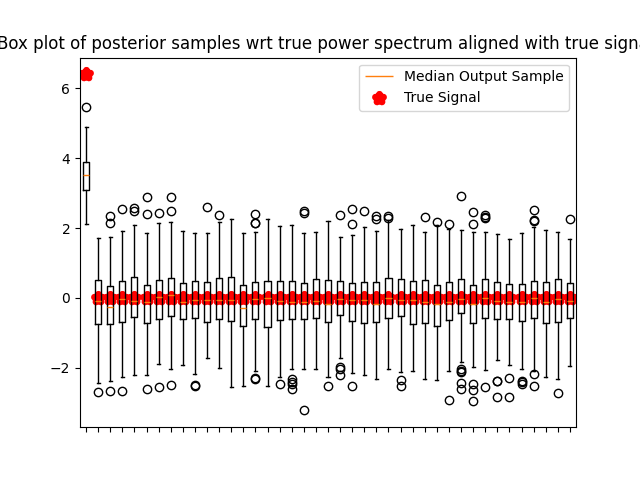
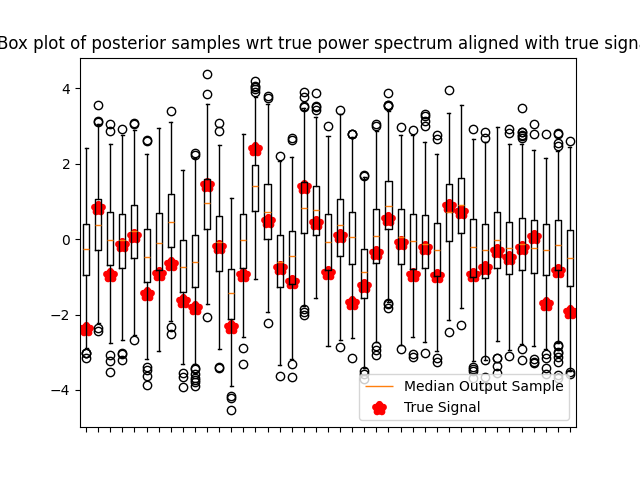
Reworking pwrspec_score.py

diff --git a/src/test_scorematching.py b/src/test_scorematching.py
@@ -83,30 +83,29 @@ if __name__ == "__main__":
     print(f"Current device is \'{device}\'.")
 
     ### Set parameters for MRA
-    M = 10000
+    M = 1000
     sigma = 1.
 
     ### Set parameters for true signal
     length = 41
     signal_true = torch.zeros((length,), device=device, requires_grad=False)
-    signal_true[0] = np.sqrt(41)
-
-    # signal_true = 1. * torch.ones((length,), device=device, requires_grad=False)
-    # signal_true += 0.5 * torch.randn_like(signal_true)
+    # signal_true[0] = np.sqrt(41)
+    # signal_true += 1.
+    signal_true += torch.randn_like(signal_true)
 
     ### Set parameters for conditioner
     conditioner_type = "power_spectrum" # "power_spectrum", "triple_correlation"
     use_random_statistics = False
-    use_CLT = True
+    use_CLT = False
     use_none_cond = False
 
     ### Set parameters for score model
-    scoremodel_type = "gaussian" # "gaussian", "learned", "none"
+    scoremodel_type = "none" # "gaussian", "learned", "none"
     
     ### Set parameters for gaussian score model
-    use_circulate = True
+    use_circulate = True # The circulate distribution is piecewise gaussian.
     prior_mean = signal_true
-    prior_A = 1.*torch.eye(n=length, device=device)
+    prior_A = 1. * torch.eye(n=length, device=device)
     # prior_mean = torch.tensor([1., 0., 0.], device=device)
     # prior_A = 0.1*torch.tensor([[1., 0., 0.], [0., 1., 0.], [0., 0., 1.]], device=device)
 
@@ -116,8 +115,8 @@ if __name__ == "__main__":
 
     ### Set parameters for Langevin sampling
     num_steps = 10000
-    num_samples = 2 ** 8
-    eps = 1e-4
+    num_samples = 2 ** 10
+    eps = 1e-3
 
     ### Set parameters for plotting
     plot_output_only = False
@@ -131,34 +130,36 @@ if __name__ == "__main__":
     ax_pts = 20
     plane_mag = signal_true.mean().item()
 
+
     #### Conditioner setup.
     circulant_true = circulant(signal_true, dim=0)
     power_spectrum_true = torch.abs(fft(signal_true, norm='ortho')).square()
     
-    MRA_sampler = GaussianSampler(
-        sigma=sigma, 
-        signal=signal_true, 
-        length=length, 
-        device=device,
-    )
-    MRA_samples = MRA_sampler(num=M, do_random_shifts=True)
-    if use_random_statistics:
-        sample_power_spectrum = torch.abs(fft(MRA_samples, norm='ortho')).square().mean(dim=0)
-        if length == 3:
-            sample_triple_corr = compute_triple_corr(MRA_samples, average=True, device=device)
-            # print(sample_triple_corr)
-    else:
-        sample_power_spectrum = power_spectrum_true + sigma ** 2
-        if length == 3:
-            triple_corr_true = compute_triple_corr(signal_true, device=device)
-            sample_triple_corr = torch.zeros(size=(3, 3), device=device)
-            sample_triple_corr[0, 0] += 1.
-            sample_triple_corr[0, :] += 1.
-            sample_triple_corr[:, 0] += 1.
-            sample_triple_corr[1, 2] += 1.
-            sample_triple_corr[2, 1] += 1.
-            sample_triple_corr *= sigma ** 2 * torch.mean(signal_true)
-            sample_triple_corr += triple_corr_true
+    if not use_none_cond:
+        MRA_sampler = GaussianSampler(
+            sigma=sigma, 
+            signal=signal_true, 
+            length=length, 
+            device=device,
+        )
+        MRA_samples = MRA_sampler(num=M, do_random_shifts=True)
+        if use_random_statistics:
+            sample_power_spectrum = torch.abs(fft(MRA_samples, norm='ortho')).square().mean(dim=0)
+            if length == 3:
+                sample_triple_corr = compute_triple_corr(MRA_samples, average=True, device=device)
+                # print(sample_triple_corr)
+        else:
+            sample_power_spectrum = power_spectrum_true + sigma ** 2
+            if length == 3:
+                triple_corr_true = compute_triple_corr(signal_true, device=device)
+                sample_triple_corr = torch.zeros(size=(3, 3), device=device)
+                sample_triple_corr[0, 0] += 1.
+                sample_triple_corr[0, :] += 1.
+                sample_triple_corr[:, 0] += 1.
+                sample_triple_corr[1, 2] += 1.
+                sample_triple_corr[2, 1] += 1.
+                sample_triple_corr *= sigma ** 2 * torch.mean(signal_true)
+                sample_triple_corr += triple_corr_true
 
     if use_none_cond:
         conditioner = None
@@ -209,7 +210,7 @@ if __name__ == "__main__":
 
 
     #### Generate input samples
-    input = torch.randn(
+    input = torch.norm(signal_true) * torch.randn(
         size=(num_samples, signal_true.shape[-1]), 
         device=device,
         requires_grad=False,
@@ -270,35 +271,36 @@ if __name__ == "__main__":
     )
 
     ### Find the output sample that minimizes generalized RMSD.
-    output_circulant = circulant(output, dim=-1)
-    best_output_idx = (
-        output.unsqueeze(0).unsqueeze(2) - output_circulant.unsqueeze(1)
-    ).square().sum(dim=3).min(dim=2)[0].sum(dim=1).min(dim=0)[1]
-    best_output = output[best_output_idx, :]
+    # output_circulant = circulant(output, dim=-1)
+    # best_output_idx = (
+    #     output.unsqueeze(0).unsqueeze(2) - output_circulant.unsqueeze(1)
+    # ).square().sum(dim=3).min(dim=2)[0].sum(dim=1).min(dim=0)[1]
+    # best_output = output[best_output_idx, :]
 
-    print(
-        " The best output sample centroid wrt RMSD is: (", 
-        ", ".join([f"{x.item():5.2f}" for x in best_output]),
-        ")\n",
-        "For reference, the aligned true signal is:   (",
-        ", ".join([f"{x.item():5.2f}" for x in align(signal_true, best_output)]),
-        ")",
-    )
-
+    # print(
+    #     " The best output sample centroid wrt RMSD is: (", 
+    #     ", ".join([f"{x.item():5.2f}" for x in best_output]),
+    #     ")\n",
+    #     "For reference, the aligned true signal is:   (",
+    #     ", ".join([f"{x.item():5.2f}" for x in align(signal_true, best_output)]),
+    #     ")",
+    # )
+    # aligned_output_est = align(output, best_output)
+    
     aligned_output = align(output, signal_true)
-    aligned_output_est = align(output, best_output)
 
 
     #### Plot results
-    MRA_samples = MRA_samples.detach().to('cpu')
     input = input.detach().to('cpu')
     output = output.detach().to('cpu')
     signal_true = signal_true.detach().to('cpu')
     circulant_true = circulant_true.detach().to('cpu')
     power_spectrum_true = power_spectrum_true.detach().to('cpu')
-    best_output = best_output.detach().to('cpu')
+    # best_output = best_output.detach().to('cpu')
     aligned_output = aligned_output.detach().to('cpu')
     output_power_spectra = output_power_spectra.detach().to('cpu')
+    if plot_MRA_samples:
+        MRA_samples = MRA_samples.detach().to('cpu')
 
     if signal_true.shape[0] == 3:
         if plot_MRA_samples:

diff --git a/src/pwrspec_score.py b/src/pwrspec_score.py
@@ -22,7 +22,7 @@ def pwrspec_score(
     k = 0
     while k < x_new.shape[-1]/2 or (k == x_new.shape[-1]//2 and x_new.shape[-1]%2 == 0):
         if CLT:
-            tmp = pwrspec_CLT_score_comps(x_new, x_tilde, rho_true, k, M, sigma, device=device)
+            tmp = pwrspec_score_comps_CLT(x_new, x_tilde, rho_true, k, M, sigma, device=device)
         else:
             tmp = pwrspec_score_comps(x_new, x_tilde, rho_true, k, M, sigma, device=device)
         score += tmp
@@ -61,22 +61,22 @@ def pwrspec_score_comps(
     res_cpu = np.inf * np.ones_like(div)
     res_cpu[div!=0.] = div_res * xi_k_cpu[div!=0.]
     res_tmp = torch.tensor(res_cpu, device=device)
-    res_tmp -= M * x_Psqr_k / (sigma ** 2)
-    res_tmp -= M / 2.
-    res_tmp += 1. / k_fac
+    res_tmp += 1. / k_fac - M / 2 - M * x_Psqr_k / (sigma ** 2)
     res_tmp *= k_fac / (2. * x_Psqr_k)
 
-    # Calculate approximated values of Bessel terms and replace these where appropriate
+    # Calculate approximated values of Bessel terms and replace where appropriate
     res = torch.zeros_like(res_tmp)
-    res += (M ** 2) * rho[k] / ((4 / k_fac) * (M + 2 / k_fac) * (sigma ** 4)) - M / ((2 / k_fac) * (sigma ** 2))
-    idxs = torch.all(torch.stack((xi_k / M >= 1., torch.isfinite(res_tmp))), dim=0)
+    res += (
+        ((M ** 2) / ((4 / k_fac) * (M + 2 / k_fac))) * rho[k] / (sigma ** 4) 
+        - (M / (2 / k_fac)) * 1. / (sigma ** 2)
+    )
+    idxs = torch.all(torch.stack((xi_k >= 0.1, torch.isfinite(res_tmp))), dim=0)
     res[idxs] = res_tmp[idxs]
 
-    # Multiply result by the gradient factor
-    out = res.unsqueeze(-1) * torch.einsum('ij, ...j -> ...i', sym_mat_k, x_new)
-    return out
+    # Multiply result by the gradient factor and return
+    return res.unsqueeze(-1) * torch.einsum('ij, ...j -> ...i', sym_mat_k, x_new)
 
-def pwrspec_CLT_score_comps(
+def pwrspec_score_comps_CLT(
         x_new: TensorType[..., "L"], 
         x_tilde: TensorType[..., "L"], 
         rho: TensorType["L"], 
@@ -97,12 +97,19 @@ def pwrspec_CLT_score_comps(
     sym_mat_k = (q_mat_k + torch.conj(q_mat_k).T).real
 
     # res = M * (rho[k] / (sigma ** 2) - (1. + x_Psqr_k / (sigma ** 2))) * (rho[k] / (sigma ** 2) + x_Psqr_k / (sigma ** 2)) / (2. * (1. + 2. * x_Psqr_k / (sigma ** 2))**2)
-    res = -1. * M * (x_Psqr_k * (sigma**2 + x_Psqr_k) + rho[k] * (sigma**2 - rho[k])) / (sigma**2 * (sigma**2 + 2. * x_Psqr_k)**2)
-    res /= k_fac
-    res += -1. / (2 * x_Psqr_k + sigma**2)
-    out = res.unsqueeze(-1) * torch.einsum('ij, ...j -> ...i', sym_mat_k, x_new)
+    
+    # res = -1. * M * (x_Psqr_k * (sigma**2 + x_Psqr_k) + rho[k] * (sigma**2 - rho[k])) / (sigma**2 * (sigma**2 + 2. * x_Psqr_k)**2)
+    # res /= k_fac
+    # res += -1. / (2 * x_Psqr_k + sigma**2)
+    
+    res = (
+        (rho[k] * (rho[k] - (sigma ** 2)) - x_Psqr_k * (x_Psqr_k + (sigma ** 2))) 
+        / (k_fac * (sigma ** 2) * (2. * x_Psqr_k + (sigma ** 2)))
+        - 1. / M
+    )
+    res *= M / (2. * x_Psqr_k + (sigma ** 2))
+    return res.unsqueeze(-1) * torch.einsum('ij, ...j -> ...i', sym_mat_k, x_new)
 
-    return out
     
 if __name__ == "__main__":
     x_new = torch.randn((11, 13))
